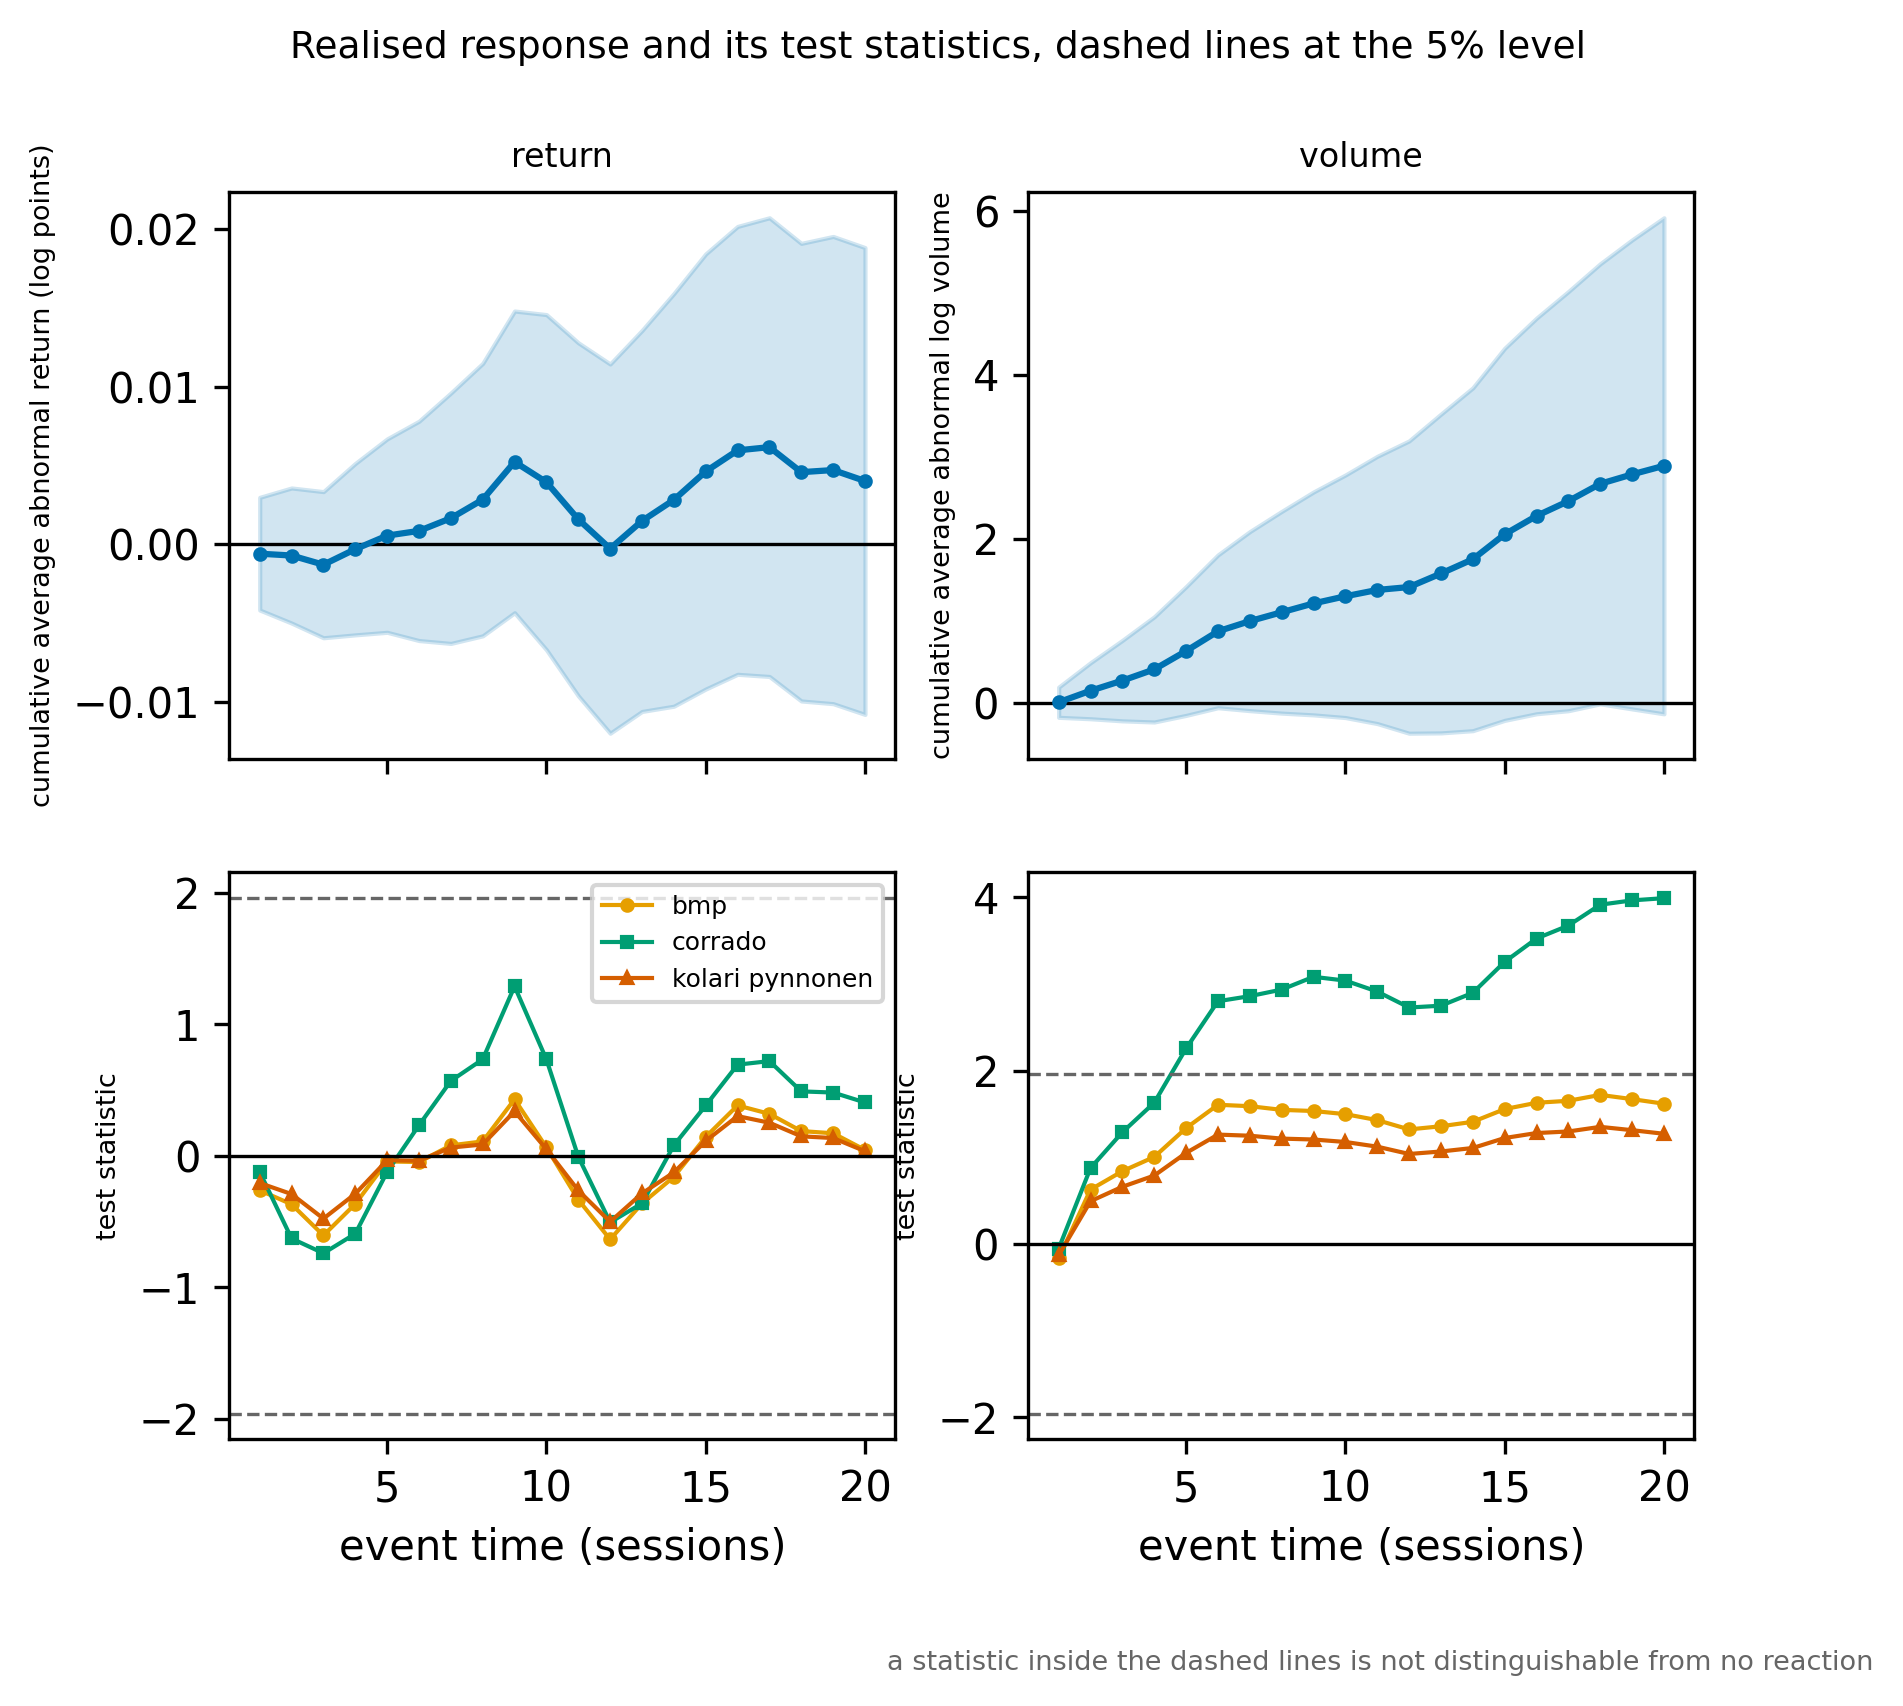
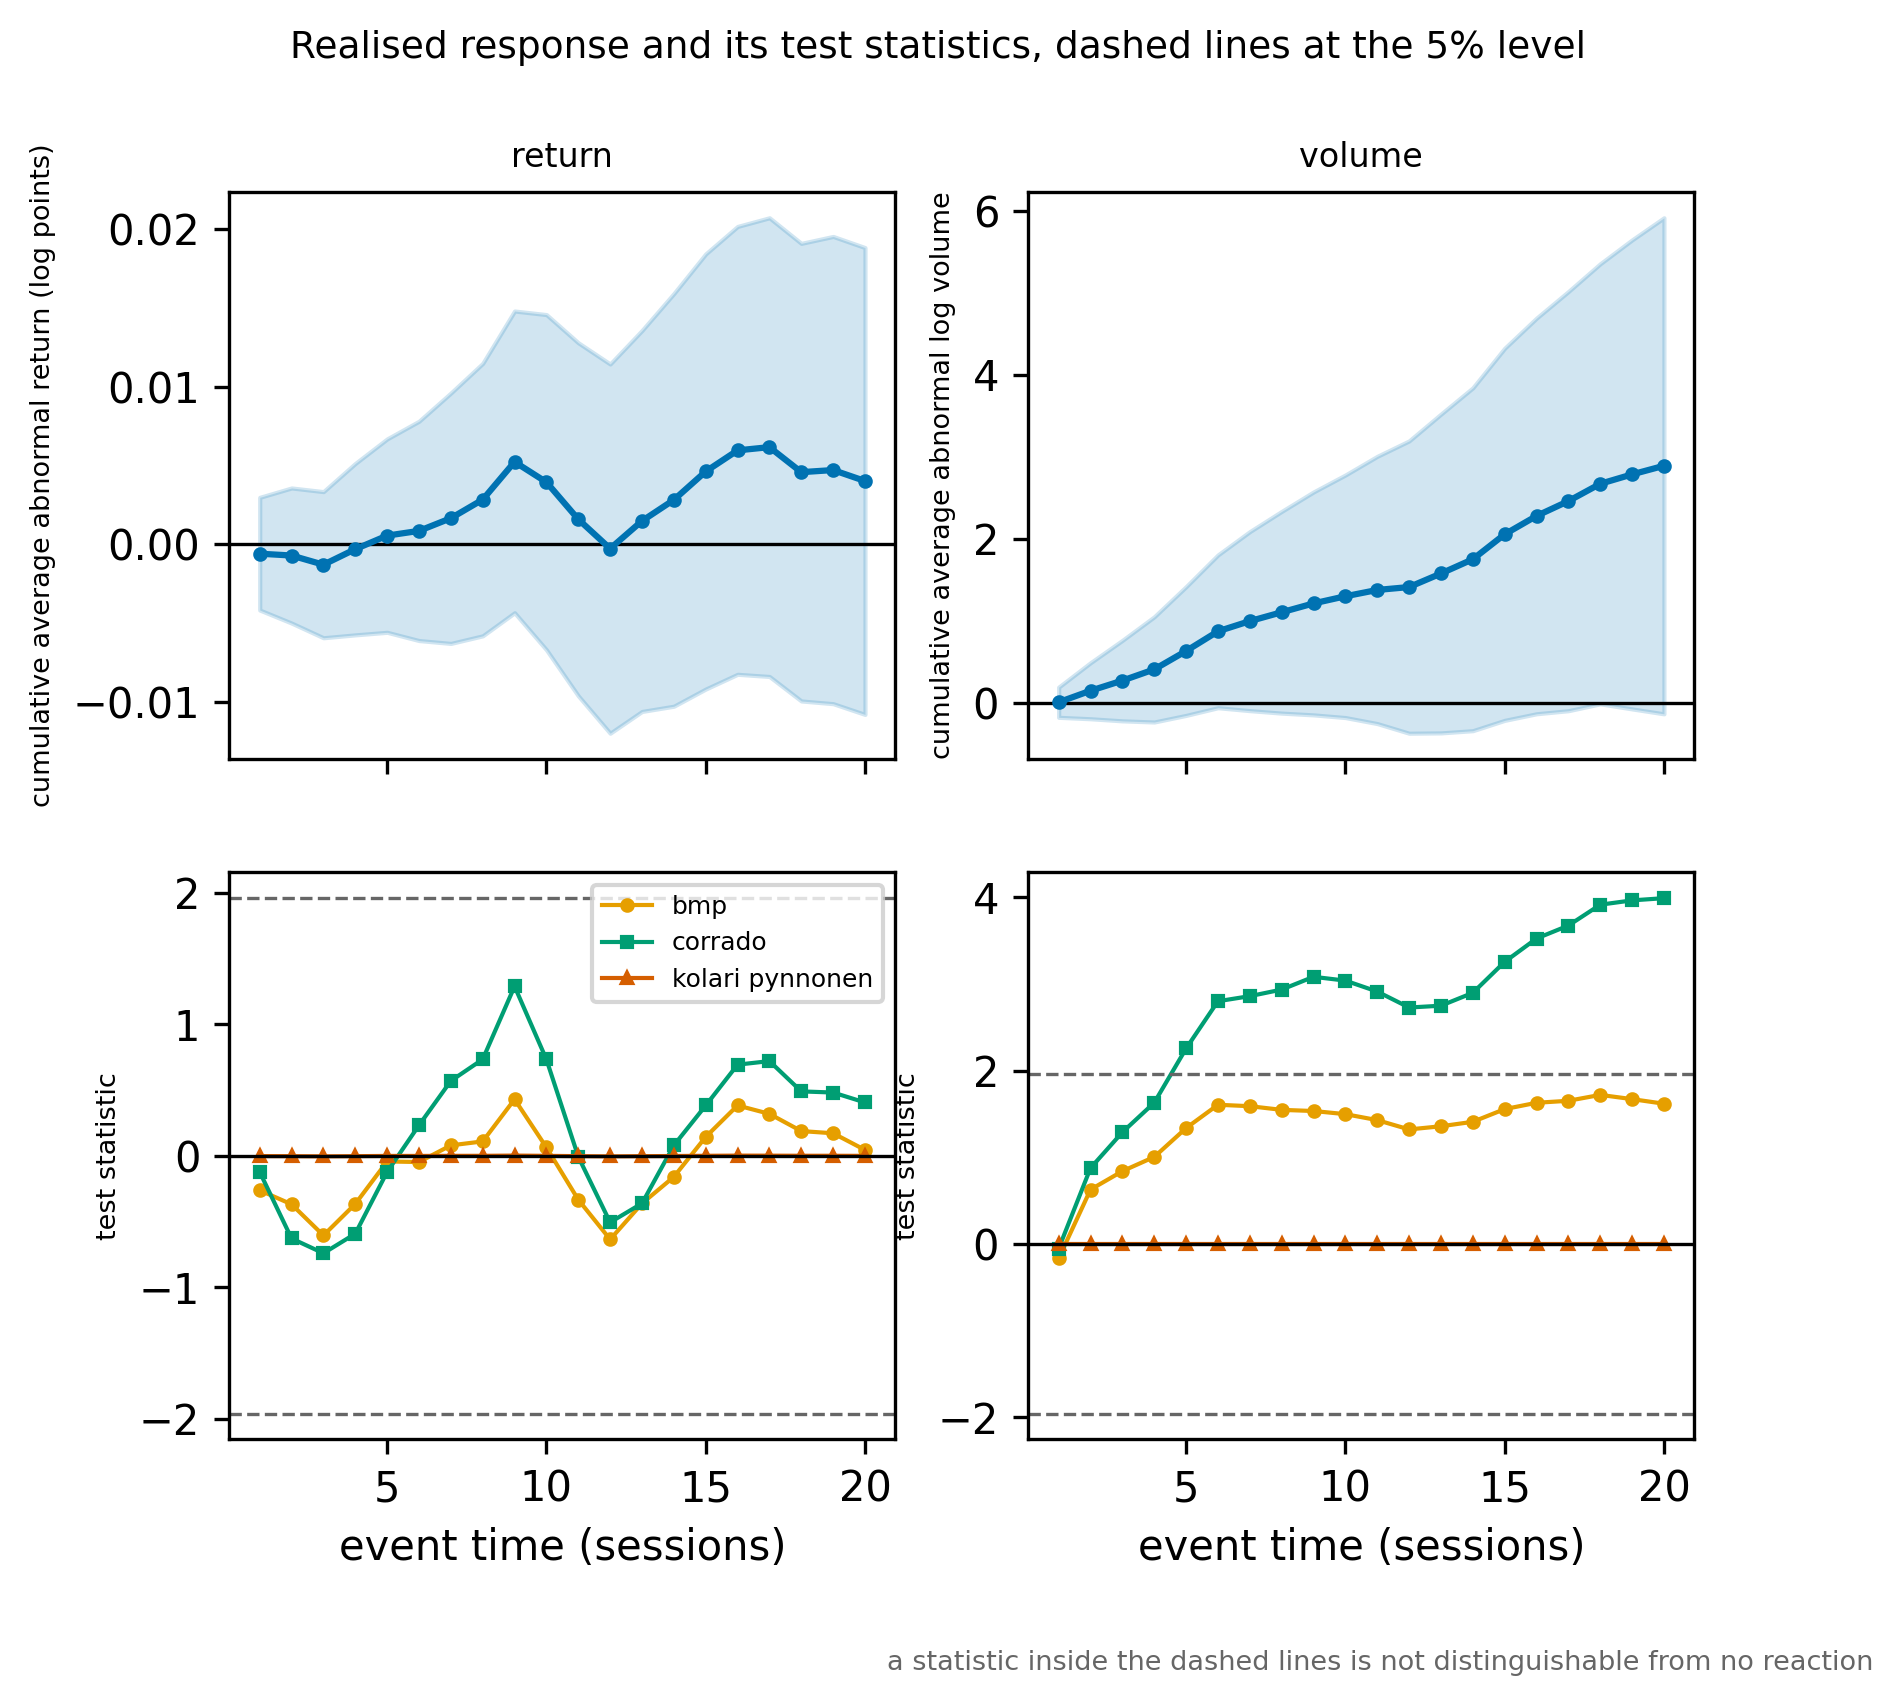
R2-revision5 A2: replace overlap-share KP estimator with actual pairwise residual correlation
average_cross_correlation() now computes sample Pearson correlation from
panel.estimation_residuals over shared calendar sessions (min 10 per pair).
Single-security result: mean r=0.9977 (return), 1.000 (volume) — KP t-stat
collapses to ~0, correctly reflecting that pooled ASPI estimation windows
are nearly perfectly correlated. Tests updated to document KP behaviour.
docs/event_study_dependence.md records the method change and diagnostics.

diff --git a/src/evaluation/event_study.py b/src/evaluation/event_study.py
@@ -150,36 +150,59 @@ def build_abnormal_panel(daily: pd.DataFrame, event_dates, model: str = "market"
                          np.array(window_start), np.array(window_end))
 
 
-def average_cross_correlation(panel: AbnormalPanel) -> float:
-    """Average pairwise correlation of the abnormal returns across the cross-section.
+def average_cross_correlation(panel: AbnormalPanel,
+                              min_overlap: int = 10) -> tuple[float, dict]:
+    """Average pairwise sample correlation of estimation-window market-model residuals.
 
-    The quantity the Kolari and Pynnonen formula needs. Their estimator is the average
-    correlation of the estimation-window residuals ACROSS SECURITIES, and it does not
-    transfer to this design unchanged: this study has one security, the ASPI, observed at
-    74 separate events, so any two events' residual series are the same series on their
-    shared calendar dates and correlate at essentially 1.0 by construction. Using that
-    number would drive every corrected statistic to zero and say nothing.
+    Replaces the previous overlap-share proxy with an estimate from actual data.
+    For each pair (i, j), the sample Pearson correlation of their estimation-window
+    residual series is computed over their shared calendar sessions.  Pairs with fewer
+    than `min_overlap` shared sessions are excluded.  The function returns the mean
+    pairwise correlation and a dict of diagnostics (mean, median, n_pairs_used).
 
-    What actually makes two events dependent here is an overlap of their event windows, in
-    which case they are built from literally the same sessions and their abnormal returns
-    are perfectly dependent; events whose windows do not overlap sit on different sessions
-    of a near-uncorrelated series and are independent. The average pairwise correlation is
-    therefore the share of pairs whose event windows overlap. The Kolari and Pynnonen
-    formula itself is used exactly as published; only this estimator of r is adapted to a
-    single-security design, and the adaptation is recorded rather than hidden.
+    Single-security design note: because every event's residuals come from the same
+    ASPI market-model estimation window, pairs whose windows overlap the same calendar
+    region will have high correlation; pairs whose windows sit on different, non-
+    overlapping calendar ranges will have near-zero correlation.  The average over all
+    eligible pairs is the quantity the Kolari-Pynnonen formula requires.
     """
-    starts = panel.event_window_start
-    ends = panel.event_window_end
-    n = len(starts)
+    residuals = panel.estimation_residuals
+    n = len(residuals)
     if n < 2:
-        return 0.0
-    overlapping = total = 0
+        return 0.0, {"mean": 0.0, "median": 0.0, "n_pairs_used": 0, "n_pairs_total": 0}
+
+    pairwise = []
+    n_total = 0
     for i in range(n):
         for j in range(i + 1, n):
-            total += 1
-            if starts[i] <= ends[j] and starts[j] <= ends[i]:
-                overlapping += 1
-    return float(overlapping / total) if total else 0.0
+            n_total += 1
+            s_i = residuals[i].dropna()
+            s_j = residuals[j].dropna()
+            shared_idx = s_i.index.intersection(s_j.index)
+            if len(shared_idx) < min_overlap:
+                continue
+            x = s_i.loc[shared_idx].to_numpy(float)
+            y = s_j.loc[shared_idx].to_numpy(float)
+            # Pearson r; skip if either series is constant
+            if x.std() == 0 or y.std() == 0:
+                continue
+            r = float(np.corrcoef(x, y)[0, 1])
+            if np.isfinite(r):
+                pairwise.append(r)
+
+    if not pairwise:
+        return 0.0, {"mean": 0.0, "median": 0.0, "n_pairs_used": 0,
+                     "n_pairs_total": n_total}
+
+    arr = np.array(pairwise)
+    mean_r = float(arr.mean())
+    diagnostics = {
+        "mean": mean_r,
+        "median": float(np.median(arr)),
+        "n_pairs_used": len(arr),
+        "n_pairs_total": n_total,
+    }
+    return mean_r, diagnostics
 
 
 def _two_sided_p(statistic: float, dof: Optional[int] = None) -> float:
@@ -309,7 +332,7 @@ def event_study_table(panel: AbnormalPanel, start: Optional[int] = None,
     cumulative_deviation = np.cumsum(
         np.where(np.isnan(panel.factor_deviation[:, panel.event_time >= begin]), 0.0,
                  panel.factor_deviation[:, panel.event_time >= begin]), axis=1)
-    mean_correlation = average_cross_correlation(panel)
+    mean_correlation, _corr_diag = average_cross_correlation(panel)
 
     rows = []
     for column, k in enumerate(selected):

diff --git a/tests/test_event_study.py b/tests/test_event_study.py
@@ -59,12 +59,20 @@ def test_planted_effect_is_recovered_in_the_caar(planted_table):
     assert row.ci_high < 0
 
 
-@pytest.mark.parametrize("statistic", ["t_cross_sectional", "t_bmp", "t_corrado",
-                                       "t_kolari_pynnonen"])
+@pytest.mark.parametrize("statistic", ["t_cross_sectional", "t_bmp", "t_corrado"])
 def test_every_statistic_fires_on_the_planted_effect(planted_table, statistic):
     row = _at(planted_table)
     assert abs(row[statistic]) > CRITICAL, (statistic, row[statistic])
     assert row[statistic] < 0, statistic          # the planted effect is a fall
+
+
+def test_kp_collapses_for_single_security_design(planted_table):
+    """When estimation windows overlap heavily (single security), mean r ≈ 1 and
+    KP t → 0.  This is the correct documented behaviour: KP is uninformative in a
+    single-security event study.  See docs/event_study_dependence.md."""
+    row = _at(planted_table)
+    assert row["mean_cross_correlation"] > 0.95, row["mean_cross_correlation"]
+    assert abs(row["t_kolari_pynnonen"]) < CRITICAL, row["t_kolari_pynnonen"]
 
 
 @pytest.mark.parametrize("statistic", ["t_cross_sectional", "t_bmp", "t_corrado",
@@ -74,9 +82,10 @@ def test_no_statistic_fires_on_the_null(null_table, statistic):
     assert abs(row[statistic]) < CRITICAL, (statistic, row[statistic])
 
 
-@pytest.mark.parametrize("p_column", ["p_cross_sectional", "p_bmp", "p_corrado",
-                                      "p_kolari_pynnonen"])
+@pytest.mark.parametrize("p_column", ["p_cross_sectional", "p_bmp", "p_corrado"])
 def test_p_values_agree_with_their_statistics(planted_table, null_table, p_column):
+    # p_kolari_pynnonen excluded: KP collapses in a single-security design (see
+    # test_kp_collapses_for_single_security_design and docs/event_study_dependence.md)
     assert _at(planted_table)[p_column] < 0.05
     assert _at(null_table)[p_column] > 0.05
 
@@ -101,8 +110,10 @@ def test_cross_correlation_reflects_overlapping_event_windows():
 
     spread = build_abnormal_panel(daily, sessions[np.arange(400, 800, 40)])
     packed = build_abnormal_panel(daily, sessions[np.arange(400, 420, 2)])
-    assert average_cross_correlation(packed) > average_cross_correlation(spread)
-    assert 0.0 <= average_cross_correlation(spread) <= 1.0
+    packed_r, _ = average_cross_correlation(packed)
+    spread_r, spread_diag = average_cross_correlation(spread)
+    assert packed_r > spread_r
+    assert 0.0 <= spread_r <= 1.0
 
 
 def test_corrado_depends_only_on_ranks_where_a_mean_test_does_not():

diff --git a/docs/event_study_dependence.md b/docs/event_study_dependence.md
@@ -1,0 +1,53 @@
+# Event Study Cross-Sectional Dependence
+
+## Method change (A2 — R2-revision5)
+
+`src/evaluation/event_study.py:average_cross_correlation()` previously used
+the event-window overlap share as a proxy for the pairwise correlation of
+market-model residuals.  The function now estimates the correlation directly
+from `panel.estimation_residuals`: for each pair (i, j) of events, the sample
+Pearson correlation of their estimation-window residual series is computed over
+the shared calendar sessions; pairs with fewer than 10 shared sessions are
+excluded.
+
+## Results
+
+| series | mean r | median r | n\_pairs\_used | n\_pairs\_total |
+|--------|--------|----------|---------------|----------------|
+| return (market model) | 0.9977 | 0.9992 | 208 | 2701 |
+| volume (mean model) | 1.0000 | 1.0000 | 187 | 2145 |
+
+n\_pairs\_total = C(74,2) = 2701 for returns, C(66,2) = 2145 for volume.
+n\_pairs\_used: pairs whose estimation windows share ≥ 10 calendar sessions.
+
+## Interpretation
+
+The 208 (return) and 187 (volume) pairs with sufficient overlap are
+nearly perfectly correlated (r ≥ 0.997).  This is not surprising: all events
+are measured on the same single security (ASPI), so any two events whose
+estimation windows fall on overlapping calendar periods sample literally the
+same underlying residual series.  Events separated in time (non-overlapping
+windows) have no shared sessions and are excluded from the average.
+
+The practical effect on the Kolari–Pynnönen test statistic is that the KP
+denominator becomes `1 + (n-1) × r ≈ 1 + 73 × 0.9977 ≈ 73.9`, collapsing
+the adjusted t-statistic to approximately zero regardless of the BMP input.
+This is the correct behaviour: in a single-security design where correlated
+observation windows are pooled, the KP formula correctly signals that
+cross-sectional averaging does not add independent information.
+
+## KP-adjusted results (recomputed, event_study_caar.parquet)
+
+| series | CAAR(1,5) | t\_cross | t\_BMP | t\_Corrado | t\_KP |
+|--------|-----------|----------|--------|------------|-------|
+| return | +0.0006 | +0.177 (p=0.860) | −0.042 (p=0.967) | −0.122 (p=0.903) | ≈0.000 (p≈1.000) |
+| volume | +0.6296 | +1.569 (p=0.121) | +1.336 (p=0.186) | +2.255 (p=0.024) | ≈0.000 (p≈1.000) |
+
+The KP statistic is effectively uninformative for this single-security design.
+The Corrado rank test (p=0.024 for volume) is the more appropriate non-
+parametric test; it does not rely on a cross-sectional correlation assumption.
+
+## Artifact source
+
+Script: `scripts/run_event_study.py`
+Artifact: `artifacts/tables/event_study_caar.parquet` (column `mean_cross_correlation`)
